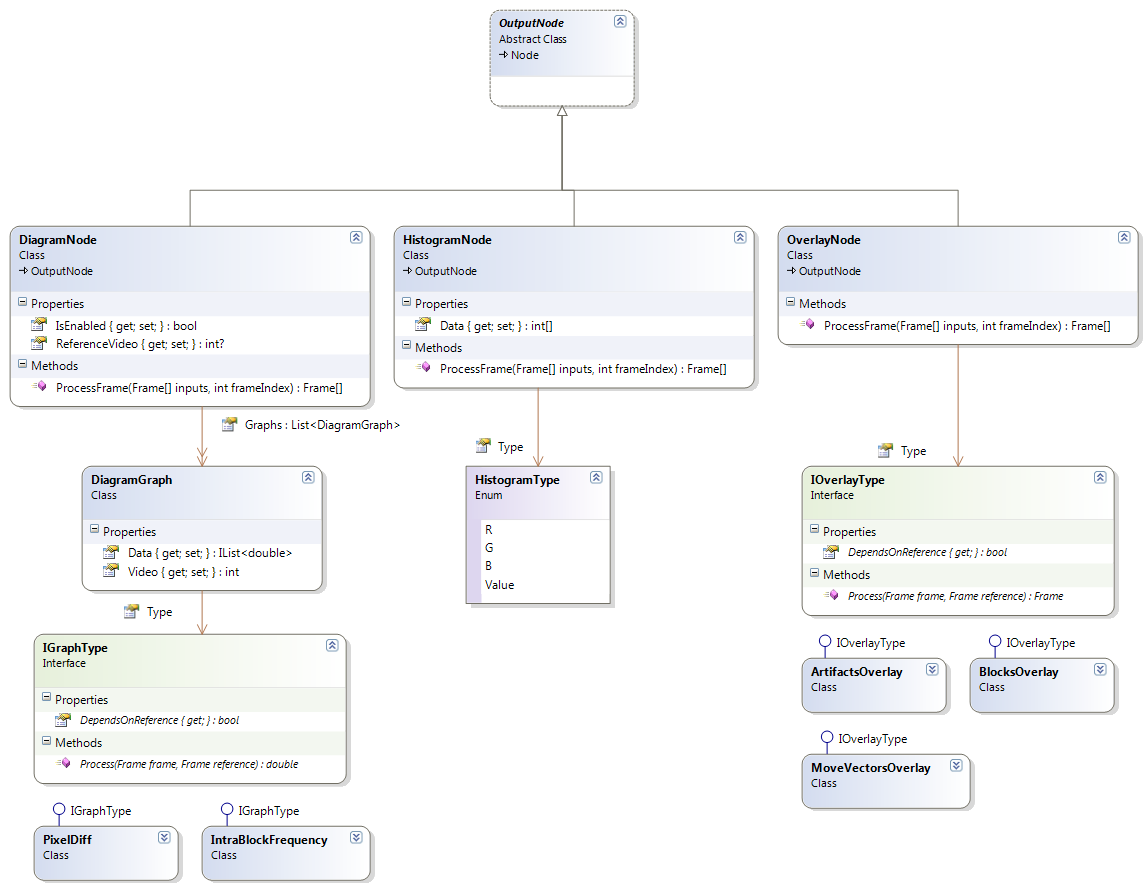
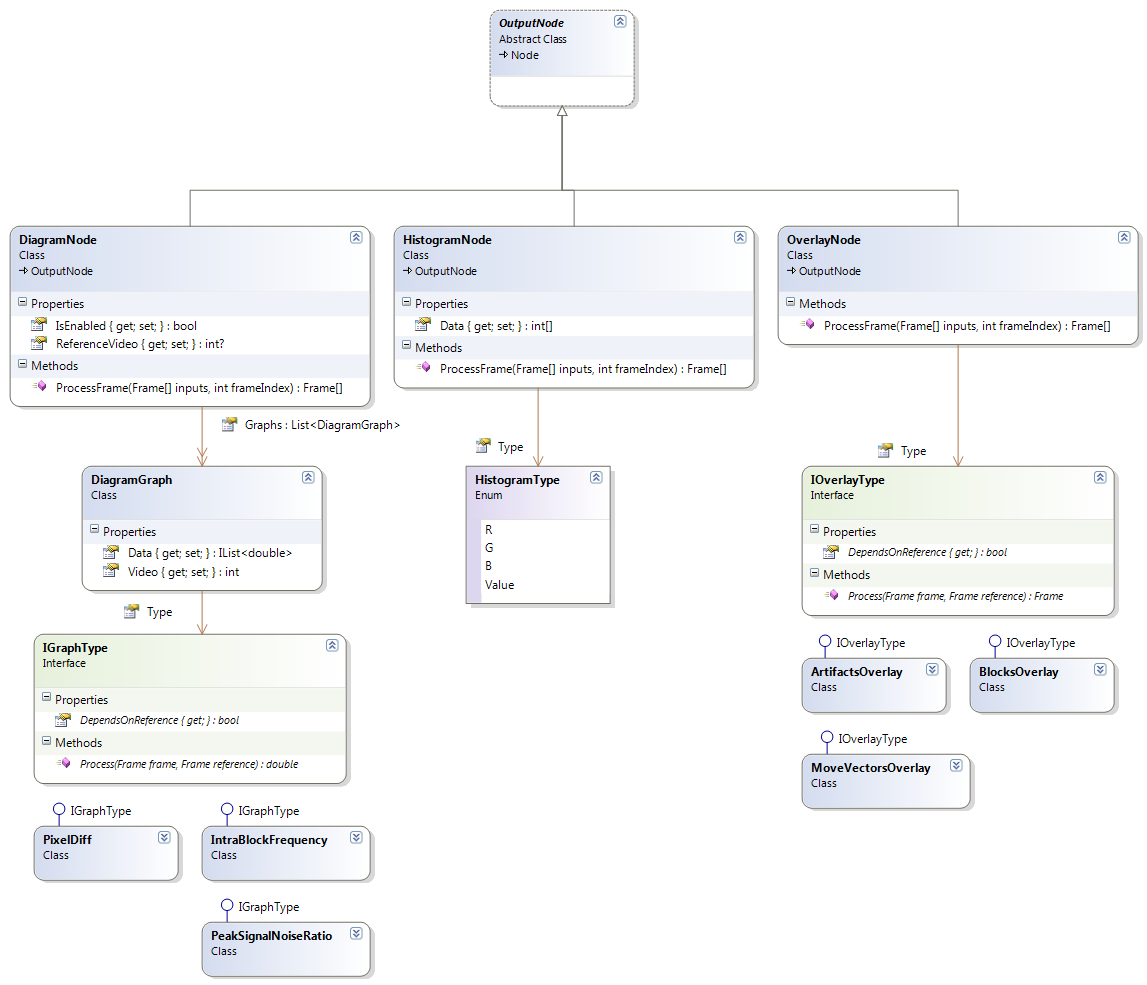
Add Peak-Signal-to-Noise-Ratio as Graphtype in class diagram

diff --git a/implementation/YuvKA/Pipeline/Implementation/GraphTypes.cs b/implementation/YuvKA/Pipeline/Implementation/GraphTypes.cs
@@ -23,6 +23,23 @@ namespace YuvKA.Pipeline.Implementation
 		#endregion
 	}
 
+	public class PeakSignalNoiseRatio : IGraphType
+	{
+		#region IGraphType Members
+
+		public double Process(Frame frame, Frame reference)
+		{
+			throw new NotImplementedException();
+		}
+
+		public bool DependsOnReference
+		{
+			get { throw new NotImplementedException(); }
+		}
+
+		#endregion
+	}
+
 	public class PixelDiff : IGraphType
 	{
 		#region IGraphType Members
